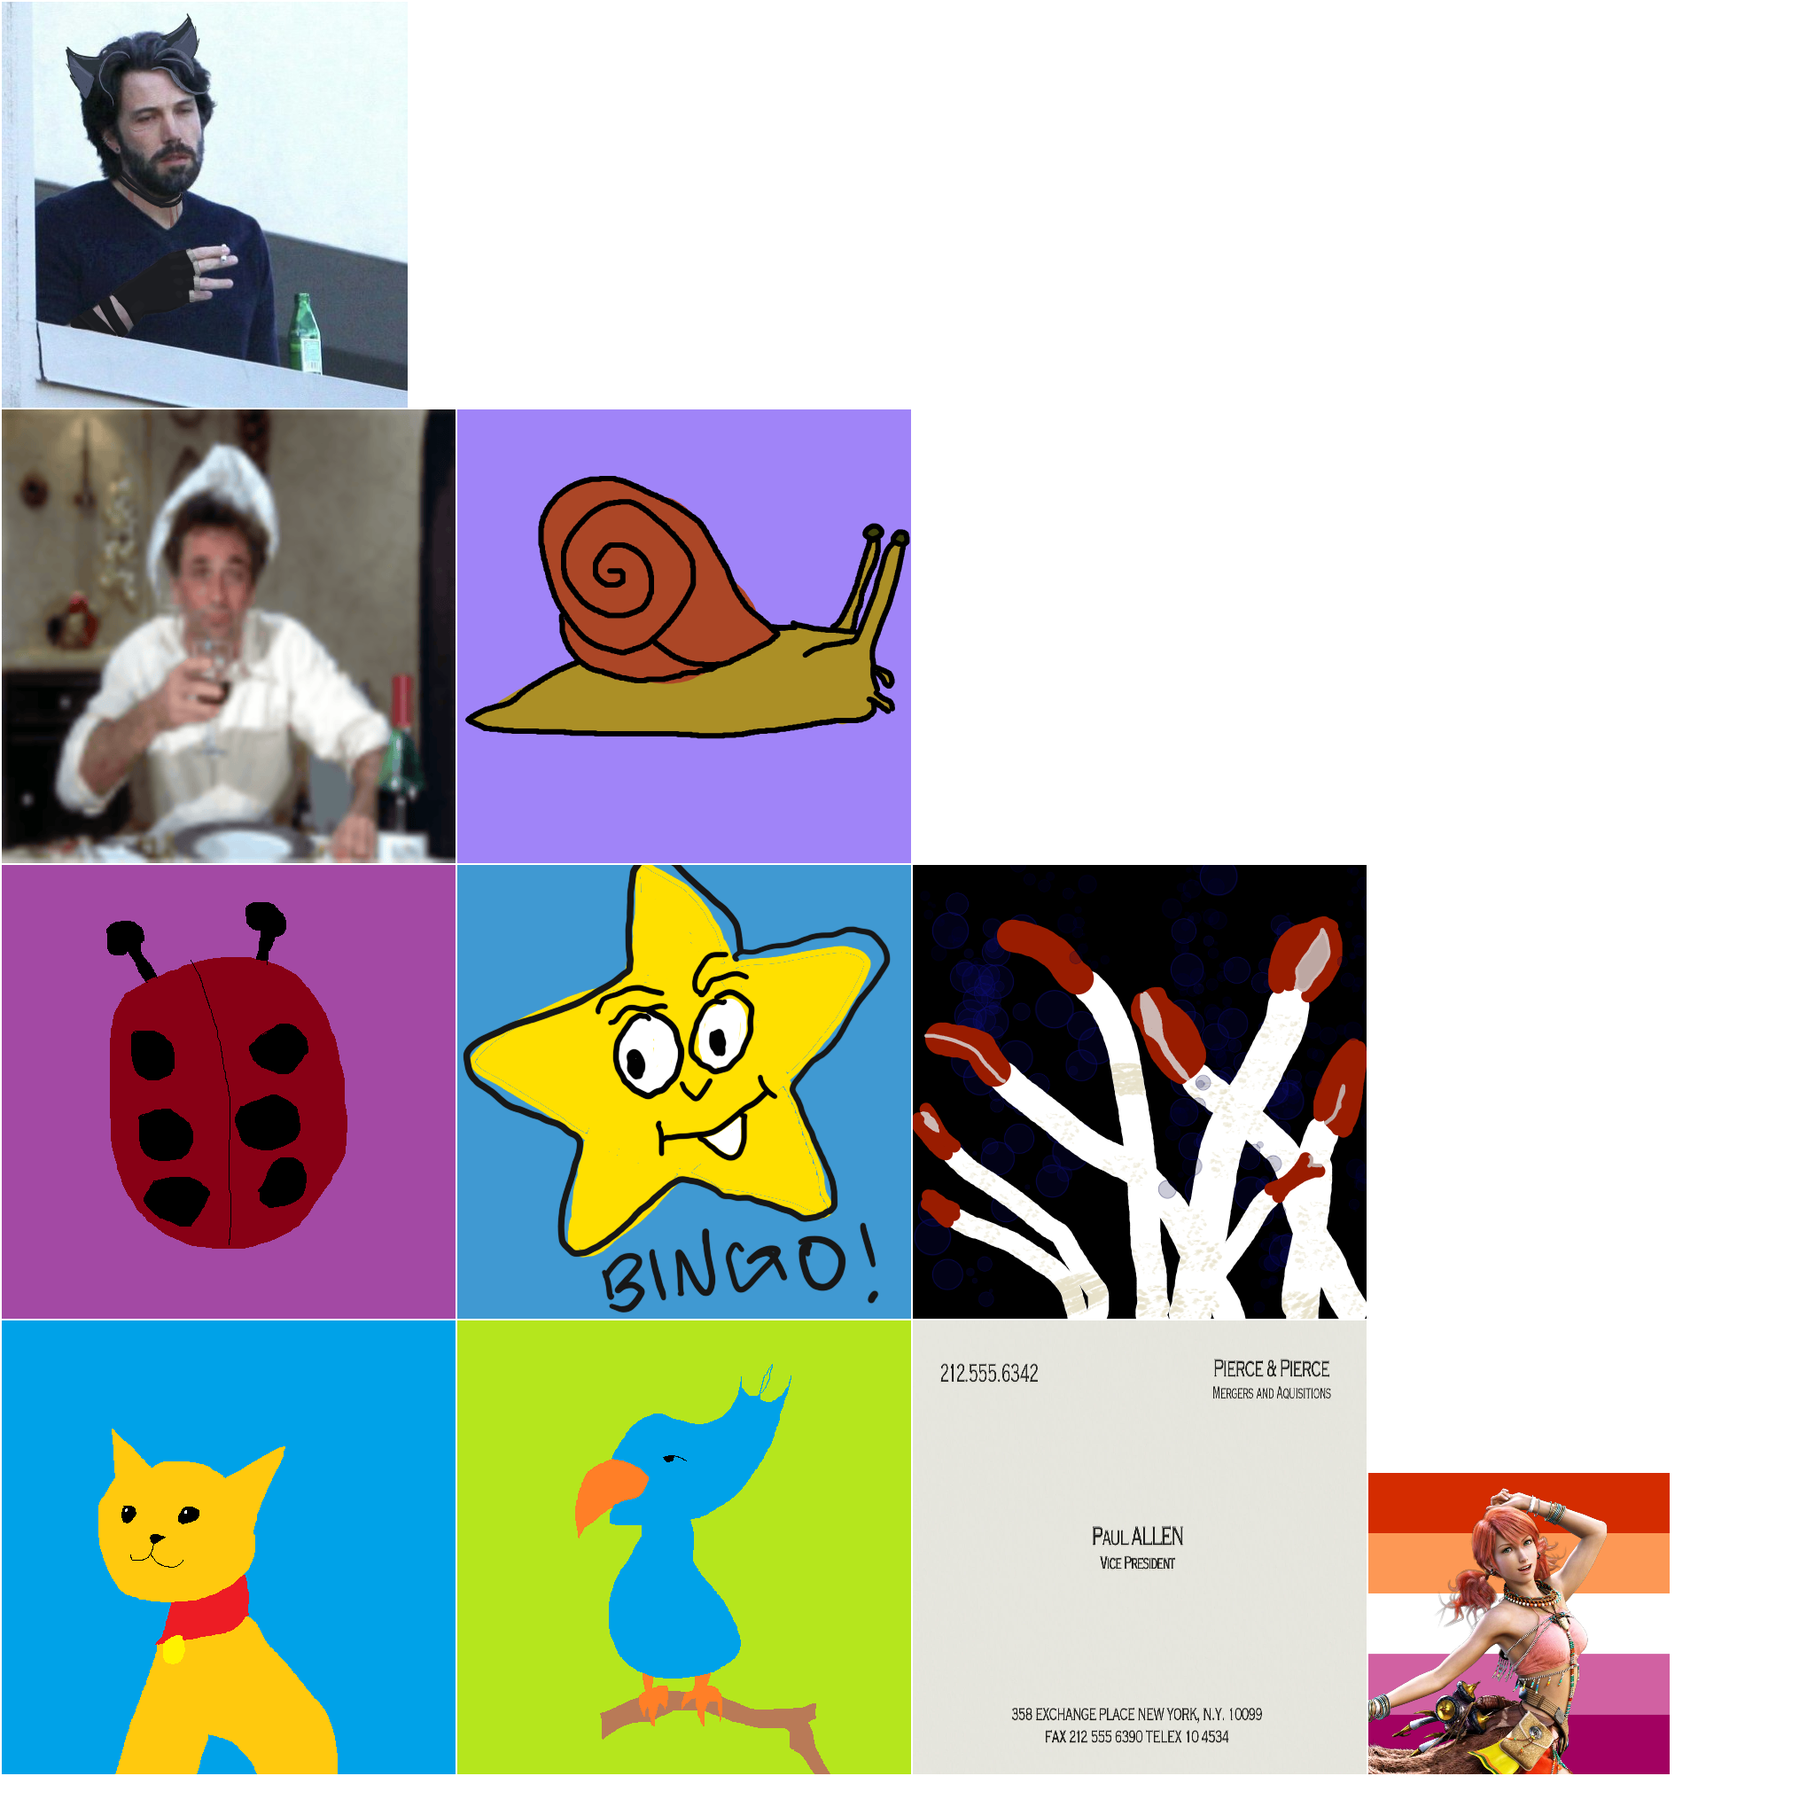
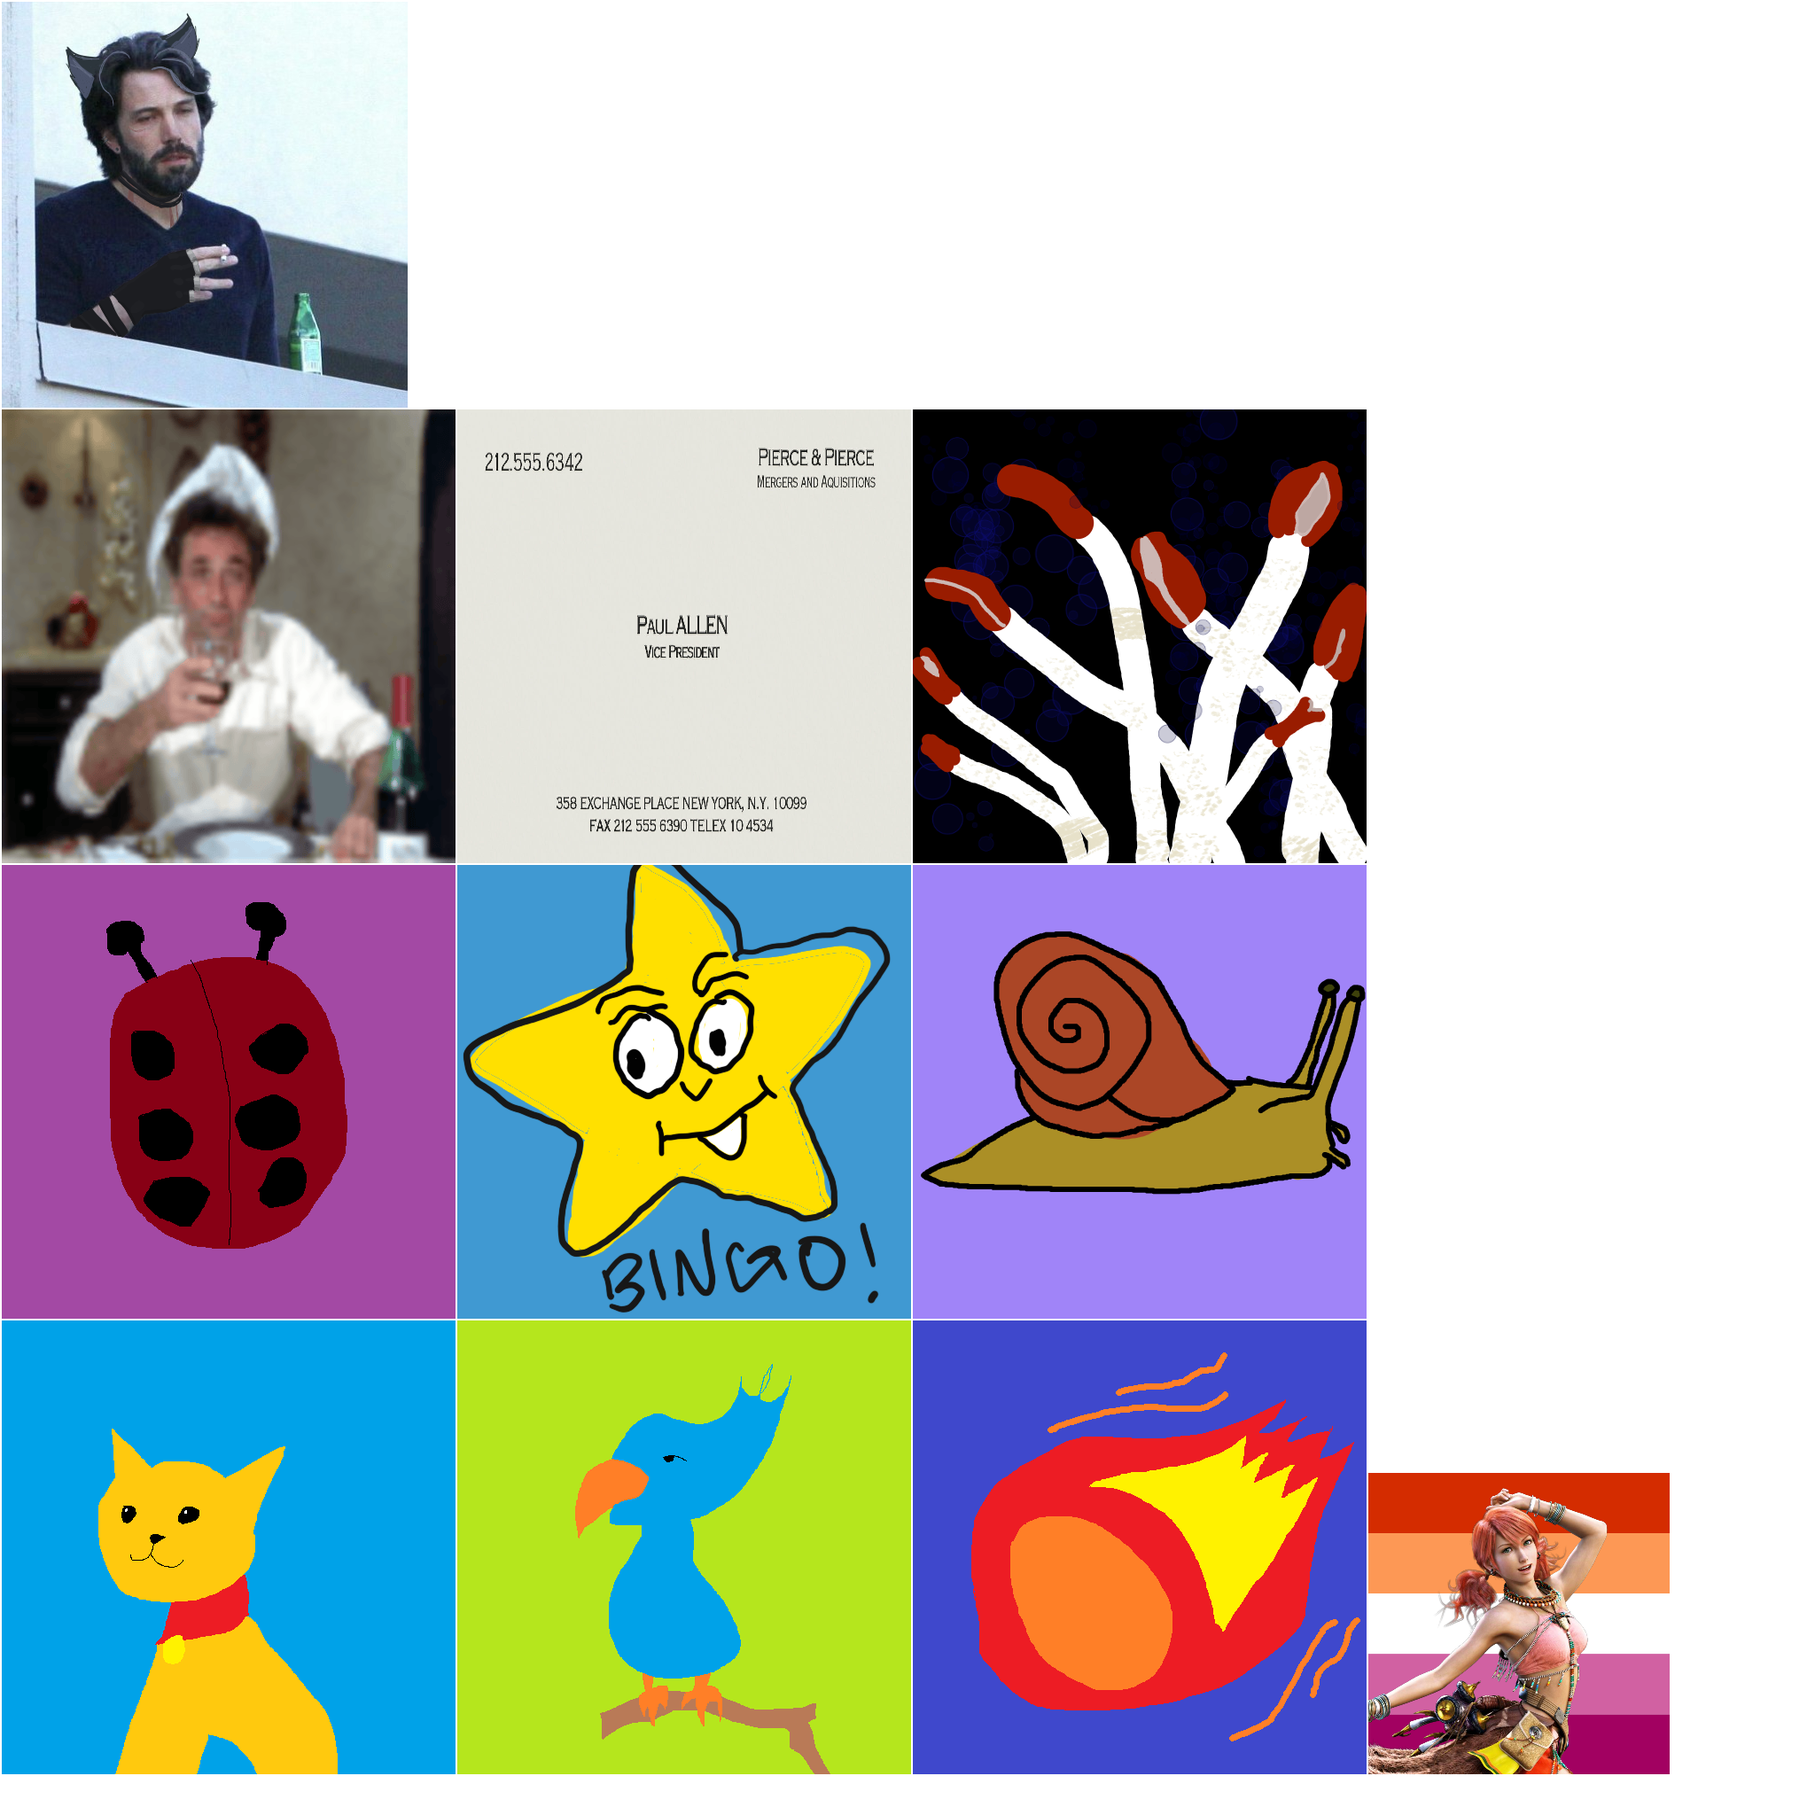
Added action cards! :0

Changed region(s): [[0.25, 0.2188, 0.75, 1.0]]

diff --git a/core/src/main/java/io/bloogames/deckbuilder/effect/validation/ConditionValidator.java b/core/src/main/java/io/bloogames/deckbuilder/effect/validation/ConditionValidator.java
@@ -9,6 +9,7 @@ import io.bloogames.deckbuilder.effect.source.Source;
 import io.bloogames.deckbuilder.effect.target.Target;
 import io.bloogames.deckbuilder.effect.target.TargetOwnerType;
 import io.bloogames.deckbuilder.effect.target.TargetSpec;
+import io.bloogames.deckbuilder.effect.target.TargetType;
 import io.bloogames.deckbuilder.error.ValidationError;
 
 import java.util.Optional;
@@ -34,10 +35,12 @@ public class ConditionValidator {
     @SuppressWarnings("unchecked")
     private Optional<ValidationError> checkTargetConditionsAreMet(TargetConditionList conditionList,
                                                                   TargetContext<?> context) {
-        for (var c : conditionList.getConditions(context.target().type())) {
+        for (TargetType type : context.target().types()) {
+            for (var c : conditionList.getConditions(type)) {
 
-            Optional<ValidationError> result = ((TargetCondition<Target>) c).check((TargetContext<Target>) context, this);
-            if (result.isPresent()) return result;
+                Optional<ValidationError> result = ((TargetCondition<Target>) c).check((TargetContext<Target>) context, this);
+                if (result.isPresent()) return result;
+            }
         }
 
         return Optional.empty();
@@ -45,7 +48,7 @@ public class ConditionValidator {
 
     private Optional<ValidationError> checkTargetAgainstTargetSpec(TargetSpec targetSpec,
                                                                    TargetContext<?> context) {
-        if (!targetSpec.allows(context.target().type())) {
+        if (!targetSpec.allows(context.target().types())) {
             return Optional.of(new ValidationError("wrong_target_type"));
         }
 

diff --git a/core/src/main/java/io/bloogames/deckbuilder/manager/CardManager.java b/core/src/main/java/io/bloogames/deckbuilder/manager/CardManager.java
@@ -1,9 +1,12 @@
 package io.bloogames.deckbuilder.manager;
 
 import com.badlogic.gdx.utils.ObjectMap;
+import io.bloogames.deckbuilder.data.BaseActionCard;
 import io.bloogames.deckbuilder.data.BaseBattlerCard;
+import io.bloogames.deckbuilder.model.ActionCardModel;
 import io.bloogames.deckbuilder.model.BattlerCardModel;
 import io.bloogames.deckbuilder.model.CardModel;
+import io.bloogames.deckbuilder.view.ActionCardView;
 import io.bloogames.deckbuilder.view.BattlerCardView;
 import io.bloogames.deckbuilder.view.CardView;
 
@@ -11,10 +14,14 @@ public enum CardManager {
     INSTANCE;
 
     ObjectMap<String, BaseBattlerCard> battlerCardObjectMap;
+    ObjectMap<String, BaseActionCard> actionCardObjectMap;
 
     CardManager() {
         battlerCardObjectMap = new ObjectMap<>();
         BattlerCards.registerAll(battlerCardObjectMap);
+
+        actionCardObjectMap = new ObjectMap<>();
+        ActionCards.registerAll(actionCardObjectMap);
     }
 
     public CardView getCard(CardModel cardModel) {
@@ -22,10 +29,18 @@ public enum CardManager {
             return new BattlerCardView((BattlerCardModel) cardModel);
         }
 
+        if (cardModel instanceof ActionCardModel) {
+            return new ActionCardView((ActionCardModel) cardModel);
+        }
+
         return null;
     }
 
     public BaseBattlerCard getBattlerCard(String id) {
         return battlerCardObjectMap.get(id);
+    }
+
+    public BaseActionCard getActionCard(String id) {
+        return actionCardObjectMap.get(id);
     }
 }

diff --git a/core/src/main/java/io/bloogames/deckbuilder/manager/ActionCards.java b/core/src/main/java/io/bloogames/deckbuilder/manager/ActionCards.java
@@ -1,0 +1,27 @@
+package io.bloogames.deckbuilder.manager;
+
+import com.badlogic.gdx.utils.ObjectMap;
+import io.bloogames.deckbuilder.data.BaseActionCard;
+import io.bloogames.deckbuilder.effect.EffectBuilder;
+import io.bloogames.deckbuilder.effect.TargetedEffect;
+import io.bloogames.deckbuilder.effect.condition.SourceConditionList;
+import io.bloogames.deckbuilder.effect.condition.TargetConditionList;
+import io.bloogames.deckbuilder.effect.step.concrete.DamageStep;
+import io.bloogames.deckbuilder.effect.target.TargetOwnerType;
+import io.bloogames.deckbuilder.effect.target.TargetSpec;
+import io.bloogames.deckbuilder.effect.target.TargetType;
+
+public class ActionCards {
+    public static void registerAll(ObjectMap<String, BaseActionCard> objectMap) {
+        register(objectMap, new BaseActionCard("fireball", "Fireball", 2,
+            new TargetedEffect(new TargetSpec(TargetOwnerType.ANY, TargetConditionList.none(), TargetType.DAMAGEABLE),
+                new EffectBuilder()
+                    .addTargetStep(TargetType.DAMAGEABLE, new DamageStep(5)).build()),
+            SourceConditionList.none()));
+
+    }
+
+    public static void register(ObjectMap<String, BaseActionCard> objectMap, BaseActionCard card) {
+        objectMap.put(card.getCardId(), card);
+    }
+}

diff --git a/core/src/main/java/io/bloogames/deckbuilder/effect/target/concrete/BattlerTarget.java b/core/src/main/java/io/bloogames/deckbuilder/effect/target/concrete/BattlerTarget.java
@@ -1,22 +1,27 @@
 package io.bloogames.deckbuilder.effect.target.concrete;
 
-import io.bloogames.deckbuilder.effect.target.Target;
+import com.badlogic.gdx.utils.Array;
+import com.badlogic.gdx.utils.SnapshotArray;
 import io.bloogames.deckbuilder.effect.target.TargetType;
 import io.bloogames.deckbuilder.model.BattlerModel;
 import io.bloogames.deckbuilder.model.PartyModel;
 
-public final class BattlerTarget implements Target {
+public final class BattlerTarget extends DamageableTarget {
     private final BattlerModel battler;
     private final PartyModel owner;
+    private static final Array<TargetType> TYPES = new SnapshotArray<>(
+        new TargetType[] { TargetType.BATTLER, TargetType.DAMAGEABLE}
+    );
 
     public BattlerTarget(BattlerModel battler, PartyModel owner) {
+        super(battler, owner);
         this.battler = battler;
         this.owner = owner;
     }
 
     @Override
-    public TargetType type() {
-        return TargetType.BATTLER;
+    public Array<TargetType> types() {
+        return TYPES;
     }
 
     public BattlerModel battler() {

diff --git a/core/src/main/java/io/bloogames/deckbuilder/effect/target/concrete/LeaderTarget.java b/core/src/main/java/io/bloogames/deckbuilder/effect/target/concrete/LeaderTarget.java
@@ -1,22 +1,27 @@
 package io.bloogames.deckbuilder.effect.target.concrete;
 
-import io.bloogames.deckbuilder.effect.target.Target;
+import com.badlogic.gdx.utils.Array;
+import com.badlogic.gdx.utils.SnapshotArray;
 import io.bloogames.deckbuilder.effect.target.TargetType;
 import io.bloogames.deckbuilder.model.LeaderModel;
 import io.bloogames.deckbuilder.model.PartyModel;
 
-public final class LeaderTarget implements Target {
+public final class LeaderTarget extends DamageableTarget {
     private final LeaderModel leader;
     private final PartyModel owner;
+    private static final Array<TargetType> TYPES = new SnapshotArray<>(
+        new TargetType[] { TargetType.LEADER, TargetType.DAMAGEABLE}
+    );
 
     public LeaderTarget(LeaderModel leader, PartyModel owner) {
+        super(leader, owner);
         this.leader = leader;
         this.owner = owner;
     }
 
     @Override
-    public TargetType type() {
-        return TargetType.LEADER;
+    public Array<TargetType> types() {
+        return TYPES;
     }
 
     public LeaderModel leader() {

diff --git a/core/src/main/java/io/bloogames/deckbuilder/view/LeaderView.java b/core/src/main/java/io/bloogames/deckbuilder/view/LeaderView.java
@@ -32,7 +32,7 @@ public class LeaderView extends ResizableGroup implements View, Targetable {
         image.setTouchable(Touchable.disabled);
         frame = new Image(AssetManager.INSTANCE.getSprite("leaderframe"));
         frame.setTouchable(Touchable.disabled);
-        healthLabel = new Label(model.getMaxHealth() + "",
+        healthLabel = new Label(model.getCurrentHealth() + "",
             new Label.LabelStyle(FontManager.INSTANCE.getLeaderHealthFont(), null));
         healthLabel.setTouchable(Touchable.disabled);
         healthLabel.setAlignment(Align.bottom);
@@ -41,16 +41,13 @@ public class LeaderView extends ResizableGroup implements View, Targetable {
         register(healthLabel, new ResizableSettings(40, 40, Align.bottom).yOffset(-6f));
     }
 
-    public int getMaxHealth() {
-        return model.getMaxHealth();
-    }
-
     public LeaderModel getModel() {
         return model;
     }
 
     @Override
     public void sync() {
+        healthLabel.setText(model.getCurrentHealth() + "");
     }
 
     @Override

diff --git a/core/src/main/java/io/bloogames/deckbuilder/screen/BattleScreen.java b/core/src/main/java/io/bloogames/deckbuilder/screen/BattleScreen.java
@@ -60,14 +60,16 @@ public class BattleScreen implements Screen {
         for (int i = 0; i < 10; i++) {
             battlerCard = new BattlerCardModel(
                 CardManager.INSTANCE.getBattlerCard(arr[MathUtils.random(0, arr.length - 1)]));
+            battlerCard.setFaceup(i % 2 != 0);
             battleModel.getEnemyParty().getHand().addCard(battlerCard);
         }
 
-        for (int i = 0; i < 10; i++) {
+        for (int i = 0; i < 9; i++) {
             battlerCard = new BattlerCardModel(
                 CardManager.INSTANCE.getBattlerCard(arr[MathUtils.random(0, arr.length - 1)]));
             battleModel.getPlayerParty().getHand().addCard(battlerCard);
         }
+        battleModel.getPlayerParty().getHand().addCard(new ActionCardModel(CardManager.INSTANCE.getActionCard("fireball")));
 
         playerParty = new PlayerPartyView(battleController, battleModel.getPlayerParty());
         playerParty.setSize(game.getViewport().getWorldWidth(), game.getViewport().getWorldHeight() * 0.5f);

diff --git a/core/src/main/java/io/bloogames/deckbuilder/effect/target/concrete/SlotTarget.java b/core/src/main/java/io/bloogames/deckbuilder/effect/target/concrete/SlotTarget.java
@@ -1,5 +1,7 @@
 package io.bloogames.deckbuilder.effect.target.concrete;
 
+import com.badlogic.gdx.utils.Array;
+import com.badlogic.gdx.utils.SnapshotArray;
 import io.bloogames.deckbuilder.effect.target.Target;
 import io.bloogames.deckbuilder.effect.target.TargetType;
 import io.bloogames.deckbuilder.model.PartyModel;
@@ -8,6 +10,9 @@ import io.bloogames.deckbuilder.model.SlotModel;
 public final class SlotTarget implements Target {
     private final SlotModel slot;
     private final PartyModel owner;
+    private static final Array<TargetType> TYPES = new SnapshotArray<>(
+        new TargetType[] {TargetType.SLOT}
+    );
 
     public SlotTarget(SlotModel slot, PartyModel owner) {
         this.slot = slot;
@@ -15,8 +20,8 @@ public final class SlotTarget implements Target {
     }
 
     @Override
-    public TargetType type() {
-        return TargetType.SLOT;
+    public Array<TargetType> types() {
+        return TYPES;
     }
 
     public SlotModel slot() {

diff --git a/core/src/main/java/io/bloogames/deckbuilder/effect/target/concrete/TableauTarget.java b/core/src/main/java/io/bloogames/deckbuilder/effect/target/concrete/TableauTarget.java
@@ -1,5 +1,7 @@
 package io.bloogames.deckbuilder.effect.target.concrete;
 
+import com.badlogic.gdx.utils.Array;
+import com.badlogic.gdx.utils.SnapshotArray;
 import io.bloogames.deckbuilder.effect.target.Target;
 import io.bloogames.deckbuilder.effect.target.TargetType;
 import io.bloogames.deckbuilder.model.PartyModel;
@@ -9,6 +11,10 @@ public class TableauTarget implements Target {
 
     private PartyModel owner;
     private TableauModel tableau;
+
+    private static final Array<TargetType> TYPES = new SnapshotArray<>(
+        new TargetType[] {TargetType.TABLEAU}
+    );
 
     public TableauTarget(PartyModel owner, TableauModel tableau) {
         this.owner = owner;
@@ -21,8 +27,8 @@ public class TableauTarget implements Target {
     }
 
     @Override
-    public TargetType type() {
-        return TargetType.TABLEAU;
+    public Array<TargetType> types() {
+        return TYPES;
     }
 
     public TableauModel tableau() {

diff --git a/core/src/main/java/io/bloogames/deckbuilder/effect/target/concrete/CardTarget.java b/core/src/main/java/io/bloogames/deckbuilder/effect/target/concrete/CardTarget.java
@@ -1,5 +1,7 @@
 package io.bloogames.deckbuilder.effect.target.concrete;
 
+import com.badlogic.gdx.utils.Array;
+import com.badlogic.gdx.utils.SnapshotArray;
 import io.bloogames.deckbuilder.effect.target.Target;
 import io.bloogames.deckbuilder.effect.target.TargetType;
 import io.bloogames.deckbuilder.model.CardModel;
@@ -9,6 +11,9 @@ public class CardTarget implements Target {
 
     private PartyModel owner;
     private CardModel card;
+    private static final Array<TargetType> TYPES = new SnapshotArray<>(
+        new TargetType[] {TargetType.CARD}
+    );
 
     public CardTarget(CardModel card, PartyModel owner) {
         this.owner = owner;
@@ -21,8 +26,8 @@ public class CardTarget implements Target {
     }
 
     @Override
-    public TargetType type() {
-        return TargetType.CARD;
+    public Array<TargetType> types() {
+        return TYPES;
     }
 
     public CardModel card() {

diff --git a/core/src/main/java/io/bloogames/deckbuilder/effect/Effect.java b/core/src/main/java/io/bloogames/deckbuilder/effect/Effect.java
@@ -11,7 +11,7 @@ public final class Effect {
         this.entries = new Array<>(entries);
     }
 
-    public Array<EffectStep> stepsFor(TargetType targetType) {
+    public Array<EffectStep> stepsFor(Array<TargetType> targetTypes) {
         Array<EffectStep> filtered = new Array<>();
 
         for (int i = 0; i < entries.size; i++) {
@@ -23,7 +23,7 @@ public final class Effect {
             }
 
             EffectStepEntry.Target target = (EffectStepEntry.Target) entry;
-            if (target.targetType() == targetType) {
+            if (targetTypes.contains(target.targetType(), true)) {
                 filtered.add(target.step());
             }
         }

diff --git a/core/src/main/java/io/bloogames/deckbuilder/effect/target/concrete/DamageableTarget.java b/core/src/main/java/io/bloogames/deckbuilder/effect/target/concrete/DamageableTarget.java
@@ -5,18 +5,13 @@ import io.bloogames.deckbuilder.effect.target.TargetType;
 import io.bloogames.deckbuilder.model.Damageable;
 import io.bloogames.deckbuilder.model.PartyModel;
 
-public final class DamageableTarget implements Target {
+public abstract class DamageableTarget implements Target {
     private final Damageable damageable;
     private final PartyModel owner;
 
     public DamageableTarget(Damageable damageable, PartyModel owner) {
         this.damageable = damageable;
         this.owner = owner;
-    }
-
-    @Override
-    public TargetType type() {
-        return TargetType.DAMAGEABLE;
     }
 
     public Damageable damageable() {
